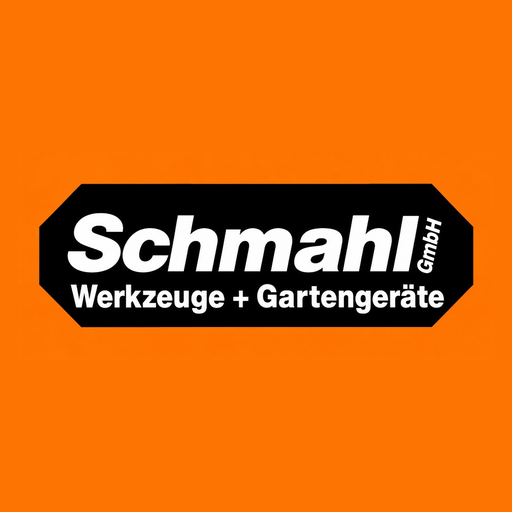
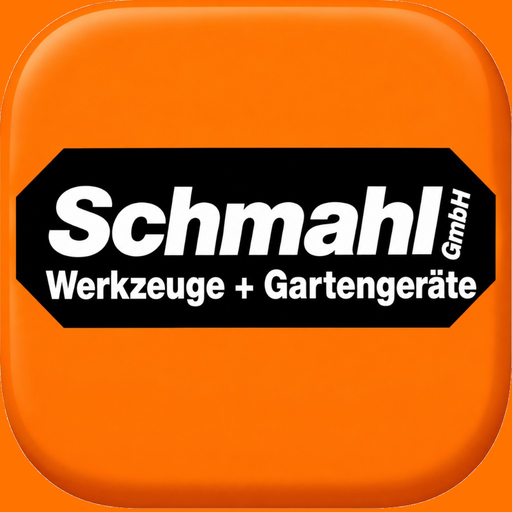
Tausche den App-Button gegen den glaenzenden Schmahl-Button.

diff --git a/index.html b/index.html
@@ -9,8 +9,8 @@
   <meta name="apple-mobile-web-app-title" content="Schmahl">
   <meta name="apple-mobile-web-app-status-bar-style" content="black-translucent">
   <title>Kundenkarte Schmahl</title>
-  <link rel="icon" href="icon-192.png?v=2" type="image/png">
-  <link rel="apple-touch-icon" href="icon-512.png?v=2">
+  <link rel="icon" href="icon-192.png?v=3" type="image/png">
+  <link rel="apple-touch-icon" href="icon-512.png?v=3">
   <link rel="manifest" href="manifest.webmanifest">
   <link rel="stylesheet" href="style.css">
 </head>
